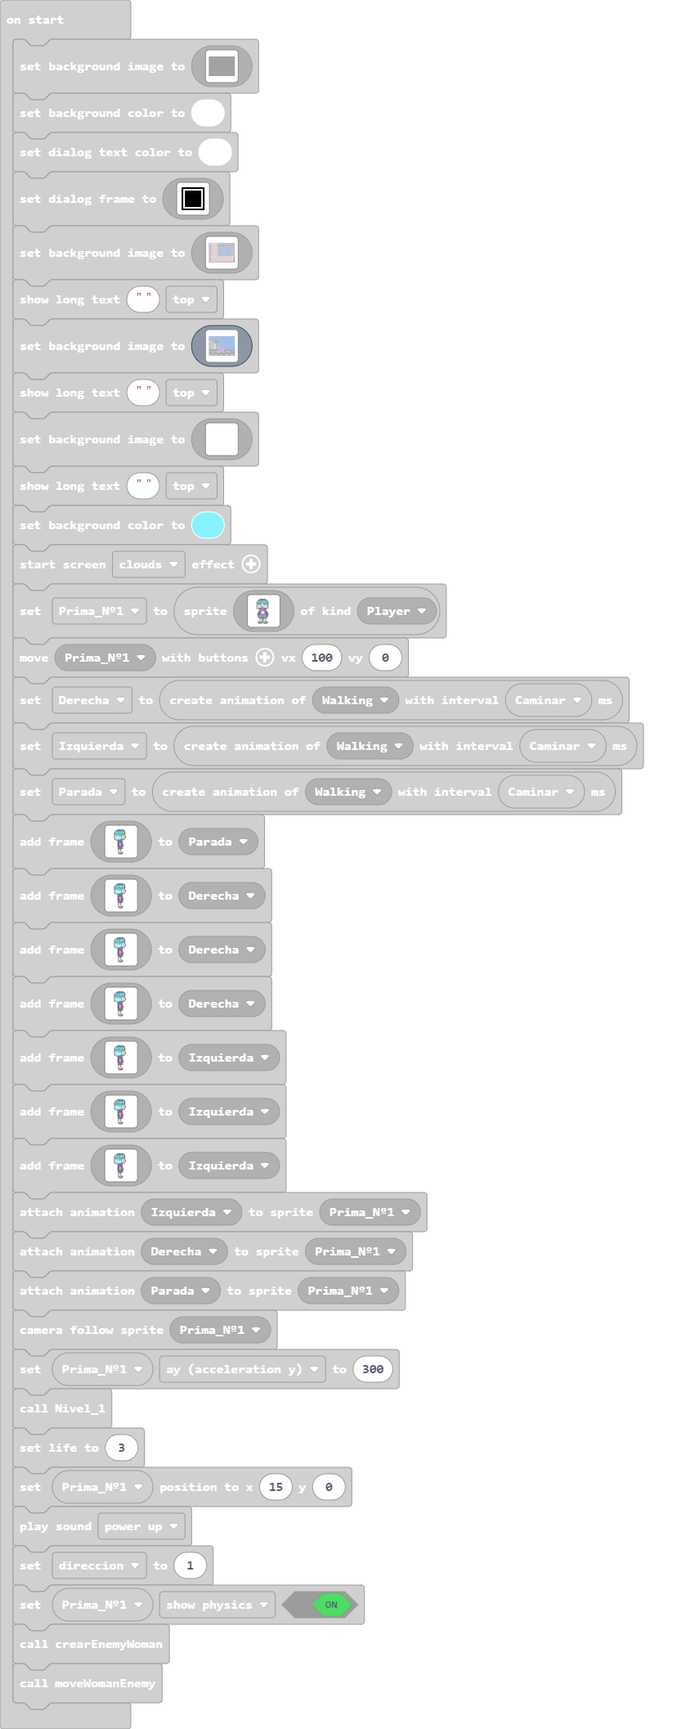
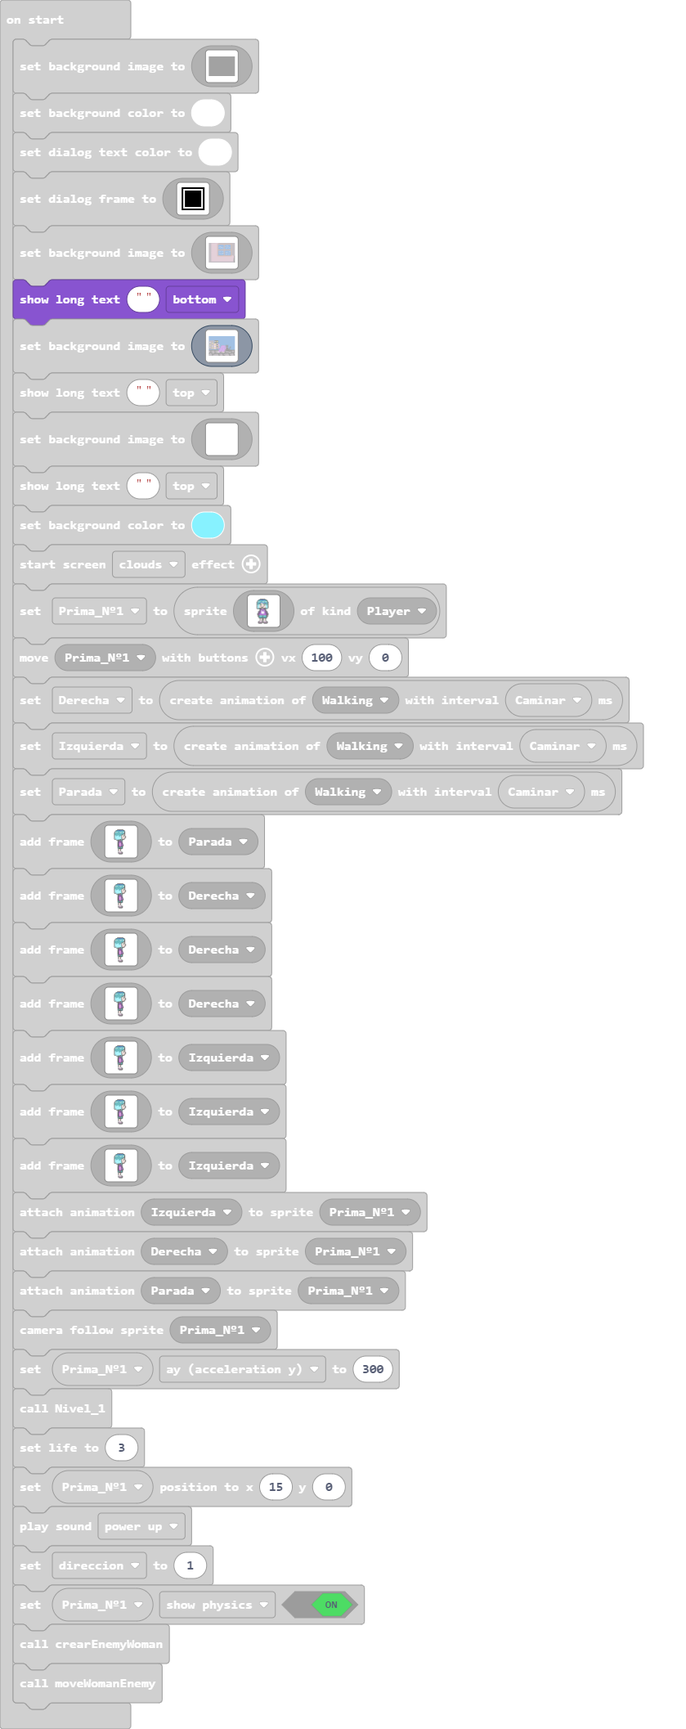
Update main.blocks, main.ts

Changed region(s): [[0.0, 0.1561, 0.3719, 0.1873]]

diff --git a/main.ts b/main.ts
@@ -1198,7 +1198,7 @@ scene.setBackgroundImage(img`
     c c c c c c c c c c c c c c c c c c c c c c c c c c c c c c c c c c c c c c c c c c c c c c c c c c c c c c c c c c c c c c c c c c c c c c c c c c c c c c c c c c c c c c c c c c c c c c c c c c c c c c c c c c c c c c c c c c c c c c c c c c c c c c c c c c c c c c c c c c c c c c c c c c c c c c c c c c c f f f f f 
     c c c c c c c c c c c c c c c c c c c c c c c c c c c c c c c c c c c c c c c c c c c c c c c c c c c c c c c c c c c c c c c c c c c c c c c c c c c c c c c c c c c c c c c c c c c c c c c c c c c c c c c c c c c c c c c c c c c c c c c c c c c c c c c c c c c c c c c c c c c c c c c c c c c c c c c c c c c f f f f f 
     `)
-game.showLongText("", DialogLayout.Top)
+game.showLongText("", DialogLayout.Bottom)
 scene.setBackgroundImage(img`
     8 8 8 8 8 8 8 8 8 8 8 8 8 8 8 8 8 8 8 8 8 8 8 8 8 8 8 8 8 8 8 8 8 8 8 8 8 8 8 8 8 8 8 8 8 8 8 8 8 8 8 8 8 8 8 8 8 8 8 8 8 8 8 8 8 8 8 8 8 8 8 8 8 8 8 8 8 8 8 8 8 8 8 8 8 8 8 8 8 8 8 8 8 8 8 8 8 8 8 8 8 8 8 8 8 8 8 8 8 8 8 8 8 8 8 8 8 8 8 8 8 8 8 8 8 8 8 8 8 8 8 8 8 8 8 8 8 8 8 8 8 8 8 8 8 8 8 8 8 8 8 8 8 8 8 8 8 8 8 8 
     8 8 8 8 8 8 8 8 8 8 8 8 8 8 8 8 8 8 8 8 8 8 8 8 8 8 8 8 8 8 8 8 8 8 8 8 8 8 8 8 8 8 8 8 8 8 8 8 8 8 8 8 8 8 8 8 8 8 8 8 8 8 8 8 8 8 8 8 8 8 8 8 8 8 8 8 8 8 8 8 8 8 8 8 8 8 8 8 8 8 8 8 8 8 8 8 8 8 8 8 8 8 8 8 8 8 8 8 8 8 8 8 8 8 8 8 8 8 8 8 8 8 8 8 8 8 8 8 8 8 8 8 8 8 8 8 8 8 8 8 8 8 8 8 8 8 8 8 8 8 8 8 8 8 8 8 8 8 8 8 
@@ -1251,54 +1251,54 @@ scene.setBackgroundImage(img`
     8 8 c c c c c c c c c c c c c c c c c c c c c c c c c c c c c b b b b b b b b b b b b b b b b f f f f f f f f f f f a a a a a a a 8 8 8 8 8 8 8 8 8 8 8 8 8 8 8 8 8 8 8 8 8 8 8 8 8 8 8 8 8 8 8 8 8 8 8 8 8 8 8 8 8 8 8 8 8 8 8 8 8 8 8 8 8 8 8 8 8 8 8 8 8 8 8 8 8 8 8 8 8 8 8 8 8 8 8 8 8 8 8 8 8 8 8 8 8 8 8 8 8 8 8 8 8 8 8 
     8 8 c c c c c c c c c c c c c c c c c c c c c c c c c c c c c b b b b b b b b b b b b b b b b f f f f f f f f f f f a a a a a a a 8 8 8 8 8 8 8 8 8 8 8 8 8 8 8 8 8 8 8 8 8 8 8 8 8 8 8 8 8 8 8 8 8 8 8 8 8 8 8 8 8 8 8 8 8 8 8 8 8 8 8 8 8 8 8 8 8 8 8 8 8 8 8 8 8 8 8 8 8 8 8 8 8 8 8 8 8 8 8 8 8 8 8 8 8 8 8 8 8 8 8 8 8 8 8 
     8 8 c c c c c c c c c c c c c c c c c c c c c c c c c c c c c b b b b b 5 5 5 5 5 b b b b b b f f f f f f f f f f f a a a a a a a 8 8 8 8 8 8 8 8 8 8 8 8 8 8 8 8 8 8 8 8 8 8 8 8 8 8 8 8 8 8 8 8 8 8 8 8 8 8 8 8 8 8 8 8 8 8 8 8 8 8 8 8 8 8 8 8 8 8 8 8 8 8 8 8 8 8 8 8 8 8 8 8 8 8 8 8 8 8 8 8 8 8 8 8 8 8 8 8 8 8 8 8 8 8 8 
-    8 8 c c c c c c c c c c c c c c c c c c c c c c c c c c c c c b b b b b 5 5 5 5 5 b b b b b b f f f f f f f f f f f a a a a a a a 8 8 8 8 8 8 8 8 8 8 8 8 8 8 8 8 8 8 8 8 8 8 8 8 8 8 8 8 8 8 8 8 8 8 8 8 8 8 8 8 8 8 8 8 8 8 8 8 8 8 8 8 8 8 8 8 8 8 8 8 8 8 8 8 8 8 8 8 8 8 8 8 8 8 8 8 8 8 8 8 8 8 8 8 8 8 8 8 8 8 8 8 8 8 8 
-    8 8 c c c c c c c c c c c c c c c c c c c c c c c c c c c c c b b b b b 5 5 5 5 5 b b b b b b f f f f f f f f f f f a 1 1 1 1 1 a 8 8 8 8 8 8 8 8 8 8 8 8 8 8 8 8 8 8 8 8 8 8 8 8 8 8 8 8 8 8 8 8 8 8 8 8 8 8 8 8 8 8 8 8 8 8 8 8 8 8 8 8 8 8 8 8 8 8 8 8 8 8 8 8 8 8 8 8 8 8 8 8 8 8 8 8 8 8 8 8 8 8 8 8 8 8 8 8 8 8 8 8 8 8 8 
-    8 8 c c c c 5 5 5 5 5 c c c c c c c c c c c c c c c c c c c c b b b b b 5 5 5 5 5 b b b b b b f f f f f f f f f f f a 1 1 1 1 1 a 8 8 8 8 8 8 8 8 8 8 8 8 8 8 8 8 8 8 8 8 8 8 8 8 8 8 8 8 8 8 8 8 8 8 8 8 8 8 8 8 8 8 8 8 8 8 8 8 8 8 8 8 8 8 8 8 8 8 8 8 8 8 8 8 8 8 8 8 8 8 8 8 8 8 8 8 8 8 8 8 8 8 8 8 8 8 8 8 8 8 8 8 8 8 8 
-    8 8 c c c c 5 5 5 5 5 c c c c c c c c c c c c c c c c c c c c b b b b b 5 5 5 5 5 b b b b b b f f f f f f f f f f f a 1 1 1 1 1 a 8 8 8 8 8 8 8 8 8 8 8 8 8 8 8 8 8 8 8 8 8 8 8 8 8 8 8 8 8 8 8 8 8 8 8 8 8 8 8 8 8 8 8 8 8 8 8 8 8 8 8 8 8 8 8 8 8 8 8 8 8 8 8 8 8 8 8 8 8 8 8 8 8 8 8 8 8 8 8 8 8 8 8 8 8 8 8 8 8 8 8 8 8 8 8 
-    8 8 c c c c 5 5 5 5 5 c c c c c c c c c c c c c c c c c c c c b b b b b b b b b b b b b b b b f f f f f f f f f f f a 1 1 1 1 1 a 8 8 8 8 8 8 8 8 8 8 8 8 8 8 8 8 8 8 8 8 8 8 8 8 8 8 8 8 8 8 8 8 8 8 8 8 8 8 8 8 8 8 8 8 8 8 8 8 8 8 8 8 8 8 8 8 8 8 8 8 8 8 8 8 8 8 8 8 8 8 8 8 8 8 8 8 8 8 8 8 8 8 8 8 8 8 8 8 8 8 8 8 8 8 8 
-    8 8 c c c c 5 5 5 5 5 c c c c c c c c c c c c c c c c c c c c b b b b b b b b b b b b b b b b f f f 5 5 5 5 5 f f f a 1 1 1 1 1 a 8 8 8 8 8 8 8 8 8 8 8 8 8 8 8 8 8 8 8 8 8 8 8 8 8 8 8 8 8 8 8 8 8 8 8 8 8 8 8 8 8 8 8 8 8 8 8 8 8 8 8 8 8 8 8 8 8 8 8 8 8 8 8 8 8 8 8 8 8 8 8 8 8 8 8 8 8 8 8 8 8 8 8 8 8 8 8 8 8 8 8 8 8 8 8 
-    8 8 c c c c 5 5 5 5 5 c c c c c c c c c c c c c c c c c c c c b b b b b b b b b b b b b b b b f f f 5 5 5 5 5 f f f a a a a a a a 8 8 8 8 8 8 8 8 8 8 8 8 8 8 8 8 8 8 8 8 8 8 8 8 8 8 8 8 8 8 8 8 8 8 8 8 8 8 8 8 8 8 8 8 8 8 8 8 8 8 8 8 8 8 8 8 8 8 8 8 8 8 8 8 8 8 8 8 8 8 8 8 8 8 8 8 8 8 8 8 8 8 8 8 8 8 8 8 8 8 8 8 8 8 8 
-    8 8 c c c c c c c c c c c c c c c c c c c 1 1 1 1 1 c c c c c b b b b b b b b b b b b b b b b f f f 5 5 5 5 5 f f f a a a a a a a 8 8 8 8 8 8 8 8 8 8 8 8 8 8 8 8 8 8 8 8 8 8 8 8 8 8 8 8 8 8 8 8 8 8 8 8 8 8 8 8 8 8 8 8 8 8 8 8 8 8 8 8 8 8 8 8 8 8 8 8 8 8 8 8 8 8 8 8 8 8 8 8 8 8 8 8 8 8 8 8 8 8 8 8 8 8 8 8 8 8 8 8 8 8 8 
-    8 8 c c c c c c c c c c c c c c c c c c c 1 1 1 1 1 c c c c c b b b b b b b b b b b b b b b b f f f 5 5 5 5 5 f f f a a a a a a a 8 8 8 8 8 8 8 8 8 8 8 8 8 8 8 8 8 8 8 8 8 8 8 8 8 8 8 8 8 8 8 8 8 8 8 8 8 8 8 8 8 8 8 8 8 8 8 8 8 8 8 8 8 8 8 8 8 8 8 8 8 8 8 8 8 8 8 8 8 8 8 8 8 8 8 8 8 8 8 8 8 8 8 8 8 8 8 8 8 8 8 8 8 8 8 
-    8 8 c c c c c c c c c c c c c c c c c c c 1 1 1 1 1 c c c c c b b b b b 1 1 1 1 1 b b b b b b f f f 5 5 5 5 5 f f f a a a a a a a 8 8 8 8 8 8 8 8 8 8 8 8 8 8 8 8 8 8 8 8 8 8 8 8 8 8 8 8 8 8 8 8 8 8 8 8 8 8 8 8 8 8 8 8 8 8 8 8 8 8 8 8 8 8 8 8 8 8 8 8 8 8 8 8 8 8 8 8 8 8 8 8 8 8 8 8 8 8 8 8 8 8 8 8 8 8 8 8 8 8 8 8 8 8 8 
-    8 8 c c c c c c c c c c c c c c c c c c c 1 1 1 1 1 c c c c c b b b b b 1 1 1 1 1 b b b b b b f f f f f f f f f f f a a a a a a a 8 8 8 8 8 8 8 8 8 8 8 8 8 8 8 8 8 8 8 8 8 8 8 8 8 8 8 8 8 8 8 8 8 8 8 8 8 8 8 8 8 8 8 8 8 8 8 8 8 8 8 8 8 8 8 8 8 8 8 8 8 8 8 8 8 8 8 8 8 8 8 8 8 8 8 8 8 8 8 8 8 8 8 8 8 8 8 8 8 8 8 8 8 8 8 
-    8 8 c c c c c c c c c c c c c c c c c c c 1 1 1 1 1 c c c c c b b b b b 1 1 1 1 1 b b b b b b f f f f f f f f f f f a a a a a a a 8 8 8 8 8 8 8 8 8 8 8 8 8 8 8 8 8 8 8 8 8 8 8 8 8 8 8 8 8 8 8 8 8 8 8 8 8 8 8 8 8 8 8 8 8 8 8 8 8 8 8 8 8 8 8 8 8 8 8 8 8 8 8 8 8 8 8 8 8 8 8 8 8 8 8 8 8 8 8 8 8 8 8 8 8 8 8 8 8 8 8 8 8 8 8 
-    8 8 c c c c c c c c c c c c c c c c c c c c c c c c c c c c c b b b b b 1 1 1 1 1 b b b b b b f f f f f f f f f f f a a a a a a a 8 8 8 8 8 8 8 8 8 f a a a a a a a a a 8 8 8 8 8 8 8 8 8 8 8 8 8 8 f 8 8 8 8 8 8 8 8 8 8 8 8 8 8 8 8 8 8 8 8 8 8 8 8 8 8 8 8 8 8 8 8 8 8 8 8 8 8 8 8 8 8 8 8 8 8 8 8 8 8 8 8 8 8 8 8 8 8 8 8 8 
-    8 8 c c c c c c c c c c c c c c c c c c c c c c c c c c c c c b b b b b 1 1 1 1 1 b b b b b b f f f f f f f f f f f a 5 5 5 5 5 a 8 8 8 8 8 8 8 8 8 f a a a a a a a a a a 8 8 8 8 8 8 8 8 8 8 8 8 8 f 8 8 8 8 8 8 8 8 8 8 8 8 8 8 8 8 8 8 8 8 8 8 8 8 8 8 8 8 8 8 8 8 8 8 8 8 8 8 8 8 8 8 8 8 8 8 8 8 8 8 8 8 8 8 8 8 8 8 8 8 8 
-    8 8 c c c c c c c c c c c c c c c c c c c c c c c c c c c c c b b b b b b b b b b b b b b b b f f f f f f f f f f f a 5 5 5 5 5 a 8 8 8 8 8 8 8 8 8 f a a a a a a a a a a 8 8 8 8 8 8 8 8 8 8 8 8 8 f 8 8 8 8 8 8 8 8 8 8 8 8 8 8 8 8 8 8 8 8 8 8 8 8 8 8 8 8 8 8 8 8 8 8 8 8 8 8 8 8 8 8 8 8 8 8 8 8 8 8 8 8 8 8 8 8 8 8 8 8 8 
-    8 8 c c c c c 1 1 1 c c c c c c c c c c c c c c c c c c c c c b b b b b b b b b b b b b b b b f f f f f f f f f f f a 5 5 5 5 5 a 8 8 8 8 8 8 8 f f a a a a a a a a a a a f a a a a a a a a a a a a f 8 8 8 8 8 8 8 8 8 8 8 8 8 8 8 8 8 8 8 8 8 8 8 8 8 8 8 8 8 8 8 8 8 8 8 8 8 8 8 8 8 8 8 8 8 8 8 8 8 8 8 8 8 8 8 8 8 8 8 8 8 
-    8 8 c c c c c 1 1 1 c c c c c c c c c c c c c c c c c c c c c b b b b b b b b b b b b b b b b f f f f f f f f f f f a 5 5 5 5 5 a 8 8 8 8 8 8 8 f a a a a a a a a a a a a f a a a a a a a a a a a a f 8 8 8 8 8 8 8 8 8 8 8 8 8 8 8 8 8 8 8 8 8 8 8 8 8 8 8 8 8 8 8 8 8 8 8 8 8 8 8 8 8 8 8 8 8 8 8 8 8 8 8 8 8 8 8 8 8 8 8 8 8 
-    8 8 c c c c c 1 1 1 c c c c c c c c c c c c c c c c c c c c c b b b b b b b b b b b b b b b b f f f f f f f f f f f a 5 5 5 5 5 a 8 8 8 8 8 8 8 f a a a a a a a a a a a a f f a a a a a a a a a a a f 8 8 8 8 8 8 8 8 8 8 8 8 8 8 8 8 8 8 8 8 8 8 8 8 8 8 8 8 8 8 8 8 8 8 8 8 8 8 8 8 8 8 8 8 8 8 8 8 8 8 8 8 8 8 8 8 8 8 8 8 8 
-    8 8 c c c c c c c c c c c c c c c c c c 5 5 5 5 5 c c c c c c b b b b b b b b b b b b b b b b f f f 1 1 1 1 1 f f f a a a a a a a 8 8 8 8 8 8 f a a a a a a a a a a a a a f a a a a a a a a a a a a f 8 8 8 8 8 8 8 8 8 8 8 8 8 8 8 8 8 8 8 8 8 8 8 8 8 8 8 8 8 8 8 8 8 8 8 8 8 8 8 8 8 8 8 8 8 8 8 8 8 8 8 8 8 8 8 8 8 8 8 8 8 
-    8 8 c c c c c c c c c c c c c c c c c c 5 5 5 5 5 c c c c c c b b b b b 5 5 5 5 5 b b b b b b f f f 1 1 1 1 1 f f f a a a a a a a 8 8 8 8 8 8 f a a a a a a a a a a a a a f a a a a a a a a a a a a f 8 8 8 8 8 8 8 8 8 8 8 8 8 8 8 8 8 8 8 8 8 8 8 8 8 8 8 8 8 8 8 8 8 8 8 8 8 8 8 8 8 8 8 8 8 8 8 8 8 8 8 8 8 8 8 8 8 8 8 8 8 
-    8 8 c c c c c c c c c c c c c c c c c c 5 5 5 5 5 c c c c c c b b b b b 5 5 5 5 5 b b b b b b f f f 1 1 1 1 1 f f f a a a a a a a 8 8 8 8 8 f a a a a a a a a a a a a a a f a a a a a a a a a a a a f 8 8 8 8 8 8 8 8 8 8 8 8 8 8 8 8 8 8 8 8 8 8 8 8 8 8 8 8 8 8 8 8 8 8 8 8 8 8 8 8 8 8 8 8 8 8 8 8 8 8 8 8 8 8 8 8 8 8 8 8 8 
-    8 8 c c c c c c c c c c c c c c c c c c 5 5 5 5 5 c c c c c c b b b b b 5 5 5 5 5 b b b b b b f f f 1 1 1 1 1 f f f a a a a a a a 8 8 8 8 8 f a a a a a a a a a a a a a f a a a a a a a a a a a a a f 8 8 8 8 8 8 8 8 8 8 8 8 8 8 8 8 8 8 8 8 8 8 8 8 8 8 8 8 8 8 8 8 8 8 8 8 8 8 8 8 8 8 8 8 8 8 8 8 8 8 8 8 8 8 8 8 8 8 8 8 8 
-    8 8 c c c c c c c c c c c c c c c c c c 5 5 5 5 5 c c c c c c b b b b b 5 5 5 5 5 b b b b b b f f f 1 1 1 1 1 f f f a a a a a a a 8 8 8 8 8 f a a a a a a a a a a a a a f a a a a a a a a a a a a a f 8 8 8 8 8 8 8 8 8 8 8 8 8 8 8 8 8 8 8 8 8 8 8 8 8 8 8 8 8 8 8 8 8 8 8 8 8 8 8 8 8 8 8 8 8 8 8 8 8 8 8 8 8 8 8 8 8 8 8 8 8 
-    8 8 c c c c c c c c c c c c c c c c c c c c c c c c c c c c c b b b b b 5 5 5 5 5 b b b b b b f f f f f f f f f f f a a a a a a a 8 8 8 8 f f a a a a a a a a a a a a a f a a a a a a a a a a a a a f 8 8 8 8 8 8 8 8 8 8 8 8 8 8 8 8 8 8 8 8 8 8 8 8 8 8 8 8 8 8 8 8 8 8 8 8 8 8 8 8 8 8 8 8 8 8 8 8 8 8 8 8 8 8 8 8 8 8 8 8 8 
-    8 8 c c c c c c c c c c c c c c c c c c c c c c c c c c c c c b b b b b b b b b b b b b b b b f f f f f f f f f f f a a a a a a a 8 8 8 8 f a a a a a a a a a a a a a a f a a a a a a a a a a a a a f 8 8 8 8 8 8 8 8 8 8 8 8 8 8 8 8 8 8 8 8 8 8 8 8 8 8 8 8 8 8 8 8 8 8 8 8 8 8 8 8 8 8 8 8 8 8 8 8 8 8 8 8 8 8 8 8 8 8 8 8 8 
-    8 8 c c c c c c c c c c c c c c c c c c c c c c c c c c c c c b b b b b b b b b b b b b b b b f f f f f f f f f f f a a a a a a a 8 8 8 8 f a a a a a a a a a a a a a a a a a a a a a a a a a a a a f 8 8 8 8 8 8 8 8 8 8 8 8 8 8 8 8 8 8 8 8 8 8 8 8 8 8 8 8 8 8 8 8 8 8 8 8 8 8 8 8 8 8 8 8 8 8 8 8 8 8 8 8 8 8 8 8 8 8 8 8 8 
-    8 8 c c c c c c c c c c c c c c c c c c c c c c c c c c c c c b b b b b b b b b b b b b b b b f f f f f f f f f f f a a a a a a a 8 8 8 f a a a a a a a a a a a a a f f a a a a a a a a a a a a a a f 8 8 8 8 8 8 8 8 8 8 8 8 8 8 8 8 8 8 8 8 8 8 8 8 8 8 8 8 8 8 8 8 8 8 8 8 8 8 8 8 8 8 8 8 8 8 8 8 8 8 8 8 8 8 8 8 8 8 8 8 8 
-    8 8 c c c c c c c c c c c c c c c c c c c c c c c c c c c c c b b b b b b b b b b b b b b b b f f f f f f f f f f f a a a a a a a 8 8 f a a a a a a a a a a a a a a f a a a a a a a a a a a a a a a a f 8 8 8 8 8 8 8 8 8 8 8 8 8 8 8 8 8 8 8 8 8 8 8 8 8 8 8 8 8 8 8 8 8 8 8 8 8 8 8 8 8 8 8 8 8 8 8 8 8 8 8 8 8 8 8 8 8 8 8 8 
-    8 8 8 8 8 8 8 8 8 8 8 8 8 8 8 8 8 8 8 8 8 8 8 8 8 8 8 8 8 8 8 8 8 8 8 8 8 8 8 8 8 8 8 8 8 8 8 8 8 8 8 8 8 8 8 8 8 8 8 8 8 8 8 8 8 8 f f a a a a a a a a a a a a a a f a a a a a a a a a a a a a a a a f 8 8 8 8 8 8 8 8 8 8 8 8 8 8 8 8 8 8 8 8 8 8 8 8 8 8 8 8 8 8 8 8 8 8 8 8 8 8 8 8 8 8 8 8 8 8 8 8 8 8 8 8 8 8 8 8 8 8 8 8 
-    8 8 8 8 8 8 8 8 8 8 8 8 8 8 8 8 8 8 8 8 8 8 8 8 8 8 8 8 8 8 8 8 8 8 8 8 8 8 8 8 8 8 8 8 8 8 8 8 8 8 8 8 8 8 8 8 8 8 8 8 8 8 8 8 8 8 f a a a a a a a a a a a a a a a f a a a a a a a a a a a a a a a a a f 8 8 8 8 8 8 8 8 8 8 8 8 8 8 8 8 8 8 8 8 8 8 8 8 8 8 8 8 8 8 8 8 8 8 8 8 8 8 8 8 8 8 8 8 8 8 8 8 8 8 8 8 8 8 8 8 8 8 8 
-    8 8 8 8 8 8 8 8 8 8 8 8 8 8 8 8 8 8 8 8 8 8 8 8 8 8 8 8 8 8 8 8 8 8 8 8 8 8 8 8 8 8 8 8 8 8 8 8 8 8 8 8 8 8 8 8 8 8 8 8 8 8 8 8 8 f f a a a a a a a a a a a a a a a f a a a a a a a a a a a a a a a a a f 8 8 8 8 8 8 8 8 8 8 8 8 8 8 8 8 8 8 8 8 8 8 8 8 8 8 8 8 8 8 8 8 8 8 8 8 8 8 8 8 8 8 8 8 8 8 8 8 8 8 8 8 8 8 8 8 8 8 8 
-    8 8 8 8 8 8 8 8 8 8 8 8 8 8 8 8 8 8 8 8 8 8 8 8 8 8 8 8 8 8 8 8 8 8 8 8 8 8 8 8 8 8 8 8 8 8 8 8 8 8 8 8 8 8 8 8 8 8 8 8 8 8 8 8 8 f a a a a a a a a a a a a a a a a a a a a a a a a a a a a a a a a a a f 8 8 8 8 8 8 8 8 8 8 8 8 8 8 8 8 8 8 8 8 8 8 8 8 8 8 8 8 8 8 8 8 8 8 8 8 8 8 8 8 8 8 8 8 8 8 8 8 8 8 8 8 8 8 8 8 8 8 8 
-    f f f f f f f f f f f f f f f f f f f f f f f f f f f f f f f f f f f f f f f f f f f f f f f f f f f f f f f f f f f f f f f f f a a a a a a a a a a a a a a a a f a a a a a a a a a a a a a f f f f f f f f f f f f f f f f f f f f f f f f f f f f f f f f f f f f f f f f f f f f f f f f f f f f f f f f f f f f f f f f f 
-    f f f f f f f f f f f f f f f f f f f f f f f f f f f f f f f f f f f f f f f f f f f f f f f f f f f f f f f f f f f f f f f f a a a a a a a a a a a a a a a a a a a a a a a a a a a a a a a f f f f f f f f f f f f f f f f f f f f f f f f f f f f f f f f f f f f f f f f f f f f f f f f f f f f f f f f f f f f f f f f f 
-    f f f f f f f f f f f f f f f f f f f f f f f f f f f f f f f f f f f f f f f f f f f f f f f f f f f f f f f f f f f f f f f a a a a a a a a a a a a a a a a a a a a a a a a a a a a a a a a f f f f f f f f f f f f f f f f f f f f f f f f f f f f f f f f f f f f f f f f f f f f f f f f f f f f f f f f f f f f f f f f f 
-    f f f f f f f f f f f f f f f f f f f f f f f f f f f f f f f f f f f f f f f f f f f f f f f f f f f f f f f f f f f f f f a a a a a a a a a a a a a a a a a a f a a a a a a a a a a a a a a f f f f f f f f f f f f f f f f f f f f f f f f f f f f f f f f f f f f f f f f f f f f f f f f f f f f f f f f f f f f f f f f f 
-    f f f f f f f f f f f f f f f f f f f f f f f f f f f f f f f f f f f f f f f f f f f f f f f f f f f f f f f f f f f f f f a a a a a a a a a a a a a a a a a f a a a a a a a a a a a a a a a f f f f f f f f f f f f f f f f f f f f f f f f f f f f f f f f f f f f f f f f f f f f f f f f f f f f f f f f f f f f f f f f f 
-    c c c c c c c c c c c c f f f f f c c c c c c c c c c c c c c c c c c c f f f f f c c c c c c c c c c c c c c c c c c f f a a a a a a a a a a a a a a a a a a f a a a a a a a a a a a a a a a f f f f f f c c c c c c c c c c c c c c c c c c c c c c c c c c c c c c f f f f f f f f f f f c c c c c c c c c c c c c c f f f f 
-    c c c c c c c c c c c c f f f f f c c c c c c c c c c c c c c c c c c c f f f f f c c c c c c c c c c c c c c c c c c f f a a a a a a a a a a a a a a a a a f a a a a a a a a a a a a a a a a f f f f f f c c c c c c c c c c c c c c c c c c c c c c c c c c c c c c f f f f f f f f f f f f c c c c c c c c c c c c c f f f f 
-    c c c c c c c c c c c c f f f f f c c c c c c c c c c c c c c c c c c c f f f f f c c c c c c c c c c c c c c c c c c f a a a a a a a a a a a a a a a a a f f a a a a a a a a a a a a a a a a f f f f f f c c c c c c c c c c c c c c c c c c c c c c c c c c c c c c f f f f f f f f f f f f c c c c c c c c c c c c f f f f f 
-    c c c c c c c c c c c f f f f f f c c c c c c c c c c c c c c c c c c c f f f f f c c c c c c c c c c c c c c c f f f f a a a a a a a a a a a a a a a a c f a f a a a a a a a a a a a a a a a f f f f f f f f c c c c c c c c c c c c c c c c c c c c c c c c c c c c c c f f f f f f f f f f c c c c c c c c c c c c f f f f f 
-    c c c c c c c c c c c f f f f f f c c c c c c c c c c c c c c c c c c c f f f f f c c c c c c c c c c c c c c c f d d f a a a a a a a a a a a a a a a c f f f a a a a a a a a a a a a a a a a f f f f f f f f f c c c c c c c c c c c c c c c c c c c c c c c c c c c c c c c c f f f f f f f c c c c c c c c c c c c f f f f f 
-    c c c c c c c c c c c f f f f f f c c c c c c c c c c c c c c c c c c c f f f f f c c c c c c c c c c c c c c f d d d f a a a a a a a a a a a a a a a f b f f a a a a a a a a a a a a a a f f f f f f f f f f f f c c c c c c c c c c c c c c c c c c c c c c c c c c c c c c c c f f f f f f c c c c c c c c c c c c f f f f f 
-    c c c c c c c c c c f f f f f f f c c c c c c c c c c c c c c c c c c c f f f f f f c c c c c c c c c c c c f d d d d d a a a a a a a a a a a a a a f f b b f f f f a a a a a a a a a f f b b f f f f f f f f f f f c c c c c c c c c c c c c c c c c c c c c c c c c c c c c c c f f f f f f c c c c c c c c c c c c f f f f f 
-    c c c c c c c c c c f f f f f f c c c c c c c c c c c c c c c c c c c c f f f f f f f c c c c c c c c c c c f d d d d d a a a a a a a a a a a a a f f f b b b b b b f f f f f f f f f b b b b b c f f f f f f f f f c c c c c c c c c c c c c c c c c c c c c c c c c c c c c c c f f f f f c c c c c c c c c c c c c f f f f f 
-    c c c c c c c c c f f f f f f f c c c c c c c c c c c c c c c c c c c c f f f f f f f c c c c c c c c c c c f d d d d d f f f f a a a a a a a a f f f f b b b b b b b b b b b b b b b b b b b b c c c f f f f f f f c c c c c c c c c c c c c c c c c c c c c c c c c c c c c c c f f f f f c c c c c c c c c c c c c f f f f f 
-    c c c c c c c c f f f f f f f f c c c c c c c c c c c c c c c c c c c c f f f f f f f c c c c c c c c c c c f d d d d d d d d f f f a a a a a f f f f f f b b b b b b b b b b b b b b b b b b b c c c c f f f f f f c c c c c c c c c c c c c c c c c c c c c c c c c c c c c c c f f f f f c c c c c c c c c c c f f f f f f f 
-    c c c c c c c c f f f f f f f f f f f f f c c c c c c c c c c c c c c c f f f f f f f c c c c c c c c c c c f f d d d d d d d d d f f f f f f f f f f f c f f b b b b b b b b b b b b b b b b b c c c c f f f f f f c c c c c c c c c c c c c c c c c c c c c c c c c c c c c c c f f f f f c c c c c c c c f f f f f f f f f f 
+    8 8 c c c c c c c c c c c c c c c c c c c c c c c c c c c c c b b b b b 5 5 5 5 5 b b b b b b f f f f f f f f f f f a a a a a a a 8 8 8 8 8 8 8 8 8 8 8 8 8 8 8 8 8 8 8 8 8 8 8 8 8 8 8 8 8 8 8 8 8 8 8 8 8 8 8 8 8 8 8 8 f 8 8 8 8 8 f 8 8 8 8 8 8 8 8 8 8 8 8 8 8 8 8 8 8 8 8 8 8 8 8 8 8 8 8 8 8 8 8 8 8 8 8 8 8 8 8 8 8 8 8 
+    8 8 c c c c c c c c c c c c c c c c c c c c c c c c c c c c c b b b b b 5 5 5 5 5 b b b b b b f f f f f f f f f f f a 1 1 1 1 1 a 8 8 8 8 8 8 8 8 8 8 8 8 8 8 8 8 8 8 8 8 8 8 8 8 8 8 8 8 8 8 8 8 8 8 8 8 8 8 8 8 8 8 8 f f 8 8 8 8 8 f f 8 8 8 8 8 8 8 8 8 8 8 8 8 8 8 8 8 8 8 8 8 8 8 8 8 8 8 8 8 8 8 8 8 8 8 8 8 8 8 8 8 8 8 
+    8 8 c c c c 5 5 5 5 5 c c c c c c c c c c c c c c c c c c c c b b b b b 5 5 5 5 5 b b b b b b f f f f f f f f f f f a 1 1 1 1 1 a 8 8 8 8 8 8 8 8 8 8 8 8 8 8 8 8 8 8 8 8 8 8 8 8 8 8 8 8 8 8 8 8 8 8 8 8 8 8 8 8 8 8 f f f 8 8 8 8 8 f f f 8 8 8 8 8 8 8 8 8 8 8 8 8 8 8 8 8 8 8 8 8 8 8 8 8 8 8 8 8 8 8 8 8 8 8 8 8 8 8 8 8 8 
+    8 8 c c c c 5 5 5 5 5 c c c c c c c c c c c c c c c c c c c c b b b b b 5 5 5 5 5 b b b b b b f f f f f f f f f f f a 1 1 1 1 1 a 8 8 8 8 8 8 8 8 8 8 8 8 8 8 8 8 8 8 8 8 8 8 8 8 8 8 8 8 8 8 8 8 8 8 8 8 8 8 8 8 8 8 f f f f 8 8 8 f f f f 8 8 8 8 8 8 8 8 8 8 8 8 8 8 8 8 8 8 8 8 8 8 8 8 8 8 8 8 8 8 8 8 8 8 8 8 8 8 8 8 8 8 
+    8 8 c c c c 5 5 5 5 5 c c c c c c c c c c c c c c c c c c c c b b b b b b b b b b b b b b b b f f f f f f f f f f f a 1 1 1 1 1 a 8 8 8 8 8 8 8 8 8 8 8 8 8 8 8 8 8 8 8 8 8 8 8 8 8 8 8 8 8 8 8 8 8 8 8 8 8 8 8 8 8 8 f f f f 8 8 8 f f f f 8 8 8 8 8 8 8 8 8 8 8 8 8 8 8 8 8 8 8 8 8 8 8 8 8 8 8 8 8 8 8 8 8 8 8 8 8 8 8 8 8 8 
+    8 8 c c c c 5 5 5 5 5 c c c c c c c c c c c c c c c c c c c c b b b b b b b b b b b b b b b b f f f 5 5 5 5 5 f f f a 1 1 1 1 1 a 8 8 8 8 8 8 8 8 8 8 8 8 8 8 f f f f f f f f f f f f f f f f f f f f 8 8 8 8 8 8 8 8 f f f f 8 8 8 f f f f 8 8 8 8 8 8 8 8 8 8 8 8 8 8 8 8 8 8 8 8 8 8 8 8 8 8 8 8 8 8 8 8 8 8 8 8 8 8 8 8 8 8 
+    8 8 c c c c 5 5 5 5 5 c c c c c c c c c c c c c c c c c c c c b b b b b b b b b b b b b b b b f f f 5 5 5 5 5 f f f a a a a a a a 8 8 8 8 8 8 8 8 8 8 8 8 f f a a a a a a a a a a a a a a a a a a a a f f f 8 8 8 8 8 f f f f f f f f f f f 8 8 8 8 8 8 8 8 8 8 8 8 8 8 8 8 8 8 8 8 8 8 8 8 8 8 8 8 8 8 8 8 8 8 8 8 8 8 8 8 8 8 
+    8 8 c c c c c c c c c c c c c c c c c c c 1 1 1 1 1 c c c c c b b b b b b b b b b b b b b b b f f f 5 5 5 5 5 f f f a a a a a a a 8 8 8 8 8 8 8 8 8 8 8 8 f a a a a a a a a a a a a a a a a a a a a a a a f f 8 8 8 f f f f f f f f f f f f f 8 8 8 8 8 8 8 8 8 8 8 8 8 8 8 8 8 8 8 8 8 8 8 8 8 8 8 8 8 8 8 8 8 8 8 8 8 8 8 8 8 
+    8 8 c c c c c c c c c c c c c c c c c c c 1 1 1 1 1 c c c c c b b b b b b b b b b b b b b b b f f f 5 5 5 5 5 f f f a a a a a a a 8 8 8 8 8 8 8 8 8 8 8 8 f a a a a a a a a a a a a a a a a a a a a a a a a f 8 8 8 f f f f f f f f f f f f f 8 8 8 8 8 8 8 8 8 8 8 8 8 8 8 8 8 8 8 8 8 8 8 8 8 8 8 8 8 8 8 8 8 8 8 8 8 8 8 8 8 
+    8 8 c c c c c c c c c c c c c c c c c c c 1 1 1 1 1 c c c c c b b b b b 1 1 1 1 1 b b b b b b f f f 5 5 5 5 5 f f f a a a a a a a 8 8 8 8 8 8 8 8 8 8 f f a a a a a a a a a a a a a a a a a a a a a a a a a f f 8 8 f f f f f f f f f f f f f 8 8 8 8 8 8 8 8 8 8 8 8 8 8 8 8 8 8 8 8 8 8 8 8 8 8 8 8 8 8 8 8 8 8 8 8 8 8 8 8 8 
+    8 8 c c c c c c c c c c c c c c c c c c c 1 1 1 1 1 c c c c c b b b b b 1 1 1 1 1 b b b b b b f f f f f f f f f f f a a a a a a a 8 8 8 8 8 8 8 8 8 8 f a a a a a a a a a a a a a a a a a a a a a a a a a a a f f 8 f f f f f f f f f f f f f 8 8 8 8 8 8 8 8 8 8 8 8 8 8 8 8 8 8 8 8 8 8 8 8 8 8 8 8 8 8 8 8 8 8 8 8 8 8 8 8 8 
+    8 8 c c c c c c c c c c c c c c c c c c c 1 1 1 1 1 c c c c c b b b b b 1 1 1 1 1 b b b b b b f f f f f f f f f f f a a a a a a a 8 8 8 8 8 8 8 8 8 8 f a a a a a a a a a a a a a a a a a a a a a a a a a a a a f 8 f f f f f f f f f f f f f 8 8 8 8 8 8 8 8 8 8 8 8 8 f f 8 8 8 8 8 8 8 8 8 8 8 8 8 8 8 8 8 8 8 8 8 8 8 8 8 8 
+    8 8 c c c c c c c c c c c c c c c c c c c c c c c c c c c c c b b b b b 1 1 1 1 1 b b b b b b f f f f f f f f f f f a a a a a a a 8 8 8 8 8 8 8 8 8 f a a a a a a a a a a a a a a a a a a a a a a a f a a a a a f 8 f f f f f f f f f f f f f 8 8 8 8 8 8 8 8 8 8 8 8 8 f f f 8 8 8 8 8 8 8 8 8 8 8 8 8 8 8 8 8 8 8 8 8 8 8 8 8 
+    8 8 c c c c c c c c c c c c c c c c c c c c c c c c c c c c c b b b b b 1 1 1 1 1 b b b b b b f f f f f f f f f f f a 5 5 5 5 5 a 8 8 8 8 8 8 8 8 8 f a a a a a a a a a a a a a a a a a a a a a a a f a a a a a f 8 f f f f f f f f f f f f f 8 8 8 8 8 8 8 8 8 8 8 8 8 f f f 8 8 8 8 8 8 8 8 8 8 8 8 8 8 8 8 8 8 8 8 8 8 8 8 8 
+    8 8 c c c c c c c c c c c c c c c c c c c c c c c c c c c c c b b b b b b b b b b b b b b b b f f f f f f f f f f f a 5 5 5 5 5 a 8 8 8 8 8 8 8 8 8 f a a a a a a a a a a f a a a a a a a a a a a a f a a a a a f 8 8 f f f f f f f f f f f 8 8 8 8 8 8 8 8 8 8 8 8 8 f f f f 8 8 8 8 8 8 8 8 8 8 8 8 8 8 8 8 8 8 8 8 8 8 8 8 8 
+    8 8 c c c c c 1 1 1 c c c c c c c c c c c c c c c c c c c c c b b b b b b b b b b b b b b b b f f f f f f f f f f f a 5 5 5 5 5 a 8 8 8 8 8 8 8 f f a a a a a a a a a a a f a a a a a a a a a a a a f a a a a a f 8 8 8 f f f f f f f f f 8 8 8 8 8 8 8 8 8 8 8 8 8 f f f f f 8 8 8 8 8 8 8 8 8 8 8 8 8 8 8 8 8 8 8 8 8 8 8 8 8 
+    8 8 c c c c c 1 1 1 c c c c c c c c c c c c c c c c c c c c c b b b b b b b b b b b b b b b b f f f f f f f f f f f a 5 5 5 5 5 a 8 8 8 8 8 8 8 f a a a a a a a a a a a a f a a a a a a a a a a a a f a a a a a f 8 8 8 f f f f f f f f f 8 8 8 8 8 8 8 8 8 8 8 8 8 f f f f f 8 8 8 8 8 8 8 8 8 8 8 8 8 8 8 8 8 8 8 8 8 8 8 8 8 
+    8 8 c c c c c 1 1 1 c c c c c c c c c c c c c c c c c c c c c b b b b b b b b b b b b b b b b f f f f f f f f f f f a 5 5 5 5 5 a 8 8 8 8 8 8 8 f a a a a a a a a a a a a f f a a a a a a a a a a a f a a a a a a f 8 8 b b f f f f f b b 8 8 8 8 8 8 8 8 8 8 8 8 f f f f f f 8 8 8 8 8 8 8 8 8 8 8 8 8 8 8 8 8 8 8 8 8 8 8 8 8 
+    8 8 c c c c c c c c c c c c c c c c c c 5 5 5 5 5 c c c c c c b b b b b b b b b b b b b b b b f f f 1 1 1 1 1 f f f a a a a a a a 8 8 8 8 8 8 f a a a a a a a a a a a a a f a a a a a a a a a a a a f a a a a a a f 8 f f b b b b b b b f f f 8 8 8 8 8 8 8 8 8 f f f f f f 8 8 8 8 8 8 8 8 8 8 8 8 8 8 8 8 8 8 8 8 8 8 8 8 8 8 
+    8 8 c c c c c c c c c c c c c c c c c c 5 5 5 5 5 c c c c c c b b b b b 5 5 5 5 5 b b b b b b f f f 1 1 1 1 1 f f f a a a a a a a 8 8 8 8 8 8 f a a a a a a a a a a a a a f a a a a a a a a a a a a f a a a a a a f f f f f f f f f f f f f f f 8 8 8 8 8 8 8 8 f f f f f f 8 8 8 8 8 8 8 8 8 8 8 8 8 8 8 8 8 8 8 8 8 8 8 8 8 8 
+    8 8 c c c c c c c c c c c c c c c c c c 5 5 5 5 5 c c c c c c b b b b b 5 5 5 5 5 b b b b b b f f f 1 1 1 1 1 f f f a a a a a a a 8 8 8 8 8 f a a a a a a a a a a a a a a f a a a a a a a a a a a a f a a a a a a f f f f f f f f f f f f f f f 8 8 8 8 8 8 8 f f f f f f 8 8 8 8 8 8 8 8 8 8 8 8 8 8 8 8 8 8 8 8 8 8 8 8 8 8 8 
+    8 8 c c c c c c c c c c c c c c c c c c 5 5 5 5 5 c c c c c c b b b b b 5 5 5 5 5 b b b b b b f f f 1 1 1 1 1 f f f a a a a a a a 8 8 8 8 8 f a a a a a a a a a a a a a f a a a a a a a a a a a a a f a a a a a a f f f f f f f f f f f f f f f 8 8 8 8 8 8 8 f f f f f f 8 8 8 8 8 8 8 8 8 8 8 8 8 8 8 8 8 8 8 8 8 8 8 8 8 8 8 
+    8 8 c c c c c c c c c c c c c c c c c c 5 5 5 5 5 c c c c c c b b b b b 5 5 5 5 5 b b b b b b f f f 1 1 1 1 1 f f f a a a a a a a 8 8 8 8 8 f a a a a a a a a a a a a a f a a a a a a a a a a a a a f a a a a a a a f f f f f f f f f f f f f f 8 8 8 8 8 8 f f f f f f 8 8 8 8 8 8 8 8 8 8 8 8 8 8 8 8 8 8 8 8 8 8 8 8 8 8 8 8 
+    8 8 c c c c c c c c c c c c c c c c c c c c c c c c c c c c c b b b b b 5 5 5 5 5 b b b b b b f f f f f f f f f f f a a a a a a a 8 8 8 8 f f a a a a a a a a a a a a a f a a a a a a a a a a a a a f a a a a a a a f f f f f f f f f f f f f f 8 8 8 8 8 8 f f f f f f 8 8 8 8 8 8 8 8 8 8 8 8 8 8 8 8 8 8 8 8 8 8 8 8 8 8 8 8 
+    8 8 c c c c c c c c c c c c c c c c c c c c c c c c c c c c c b b b b b b b b b b b b b b b b f f f f f f f f f f f a a a a a a a 8 8 8 8 f a a a a a a a a a a a a a a f a a a a a a a a a a a a a f a a a a a a a f f f f f f f f f f f f f f f 8 8 8 8 8 f f f f f f 8 8 8 8 8 8 8 8 8 8 8 8 8 8 8 8 8 8 8 8 8 8 8 8 8 8 8 8 
+    8 8 c c c c c c c c c c c c c c c c c c c c c c c c c c c c c b b b b b b b b b b b b b b b b f f f f f f f f f f f a a a a a a a 8 8 8 8 f a a a a a a a a a a a a a a a a a a a a a a a a a a a a f a a a a a a a f f f f f f f f f f f f f f f 8 8 8 8 8 f f f f f 8 8 8 8 8 8 8 8 8 8 8 8 8 8 8 8 8 8 8 8 8 8 8 8 8 8 8 8 8 
+    8 8 c c c c c c c c c c c c c c c c c c c c c c c c c c c c c b b b b b b b b b b b b b b b b f f f f f f f f f f f a a a a a a a 8 8 8 f a a a a a a a a a a a a a f f a a a a a a a a a a a a a a f a a a a a a a f f f f f f f f f f f f f f f f 8 8 8 8 f f f f f 8 8 8 8 8 8 8 8 8 8 8 8 8 8 8 8 8 8 8 8 8 8 8 8 8 8 8 8 8 
+    8 8 c c c c c c c c c c c c c c c c c c c c c c c c c c c c c b b b b b b b b b b b b b b b b f f f f f f f f f f f a a a a a a a 8 8 f a a a a a a a a a a a a a a f a a a a a a a a a a a a a a a a f a a a a a a f f f f f f f f f f f f f f f f 8 8 8 8 8 f f f f 8 8 8 8 8 8 8 8 8 8 8 8 8 8 8 8 8 8 8 8 8 8 8 8 8 8 8 8 8 
+    8 8 8 8 8 8 8 8 8 8 8 8 8 8 8 8 8 8 8 8 8 8 8 8 8 8 8 8 8 8 8 8 8 8 8 8 8 8 8 8 8 8 8 8 8 8 8 8 8 8 8 8 8 8 8 8 8 8 8 8 8 8 8 8 8 8 f f a a a a a a a a a a a a a a f a a a a a a a a a a a a a a a a f a a a a a a f f f f f f f f f f f f f f f f f 8 8 8 8 f f f f 8 8 8 8 8 8 8 8 8 8 8 8 8 8 8 8 8 8 8 8 8 8 8 8 8 8 8 8 8 
+    8 8 8 8 8 8 8 8 8 8 8 8 8 8 8 8 8 8 8 8 8 8 8 8 8 8 8 8 8 8 8 8 8 8 8 8 8 8 8 8 8 8 8 8 8 8 8 8 8 8 8 8 8 8 8 8 8 8 8 8 8 8 8 8 8 8 f a a a a a a a a a a a a a a a f a a a a a a a a a a a a a a a a a f a a a a f f f f f f f f f f f f f f f f f f f 8 8 8 f f f f 8 8 8 8 8 8 8 8 8 8 8 8 8 8 8 8 8 8 8 8 8 8 8 8 8 8 8 8 8 
+    8 8 8 8 8 8 8 8 8 8 8 8 8 8 8 8 8 8 8 8 8 8 8 8 8 8 8 8 8 8 8 8 8 8 8 8 8 8 8 8 8 8 8 8 8 8 8 8 8 8 8 8 8 8 8 8 8 8 8 8 8 8 8 8 8 f f a a a a a a a a a a a a a a a f a a a a a a a a a a a a a a a a a f a a a f f f f f f f f f f f f f f f f f f f f f 8 8 f f f f f 8 8 8 8 8 8 8 8 8 8 8 8 8 8 8 8 8 8 8 8 8 8 8 8 8 8 8 8 
+    8 8 8 8 8 8 8 8 8 8 8 8 8 8 8 8 8 8 8 8 8 8 8 8 8 8 8 8 8 8 8 8 8 8 8 8 8 8 8 8 8 8 8 8 8 8 8 8 8 8 8 8 8 8 8 8 8 8 8 8 8 8 8 8 8 f a a a a a a a a a a a a a a a a a a a a a a a a a a a a a a a a a f f f f f f f f f f f f f f f f f f f f f f f f f f 8 8 f f f f f 8 8 8 8 8 8 8 8 8 8 8 8 8 8 8 8 8 8 8 8 8 8 8 8 8 8 8 8 
+    f f f f f f f f f f f f f f f f f f f f f f f f f f f f f f f f f f f f f f f f f f f f f f f f f f f f f f f f f f f f f f f f f a a a a a a a a a a a a a a a a f a a a a a a a a a a a a a a a a a f f f f f f f f f f f f f f f f f f f f f f f f f f f f f f f f f f f f f f f f f f f f f f f f f f f f f f f f f f f f f 
+    f f f f f f f f f f f f f f f f f f f f f f f f f f f f f f f f f f f f f f f f f f f f f f f f f f f f f f f f f f f f f f f f a a a a a a a a a a a a a a a a a a a a a a a a a a a a a a a a a a a f f f f f f f f f f f f f f f f f f f f f f f f f f f f f f f f f f f f f f f f f f f f f f f f f f f f f f f f f f f f f 
+    f f f f f f f f f f f f f f f f f f f f f f f f f f f f f f f f f f f f f f f f f f f f f f f f f f f f f f f f f f f f f f f a a a a a a a a a a a a a a a a a a a a a a a a a a a a a a a a a a a a f f f f f f f f f f f f f f f f f f f f f f f f f f f f f f f f f f f f f f f f f f f f f f f f f f f f f f f f f f f f f 
+    f f f f f f f f f f f f f f f f f f f f f f f f f f f f f f f f f f f f f f f f f f f f f f f f f f f f f f f f f f f f f f a a a a a a a a a a a a a a a a a a f a a a a a a a a a a a a a a a a a f f f f f f f f f f f f f f f f f f f f f f f f f f f f f f f f f f f f f f f f f f f f f f f f f f f f f f f f f f f f f f 
+    f f f f f f f f f f f f f f f f f f f f f f f f f f f f f f f f f f f f f f f f f f f f f f f f f f f f f f f f f f f f f f a a a a a a a a a a a a a a a a a f a a a a a a a a a a a a a a a a a a f f f f f f f f f f f f f f f f f f f f f f f f f f f f f f f f f f f f f f f f f f f f f f f f f f f f f f f f f f f f f f 
+    c c c c c c c c c c c c f f f f f c c c c c c c c c c c c c c c c c c c f f f f f c c c c c c c c c c c c c c c c c c f f a a a a a a a a a a a a a a a a a a f a a a a a a a a a a a a a a a a a a f f f c c c c c f f f f f f f f f f f f f f f f f f f f c c f f f f f f f f f f f f f f c c c c c c c c c c c c c c f f f f 
+    c c c c c c c c c c c c f f f f f c c c c c c c c c c c c c c c c c c c f f f f f c c c c c c c c c c c c c c c c c c f f a a a a a a a a a a a a a a a a a f a a a a a a a a a a a a a a a a a a a f f f c c c c c f f f f f f f f f f f f f f f f f f f f c c f f f f f f f f f f f f f f f c c c c c c c c c c c c c f f f f 
+    c c c c c c c c c c c c f f f f f c c c c c c c c c c c c c c c c c c c f f f f f c c c c c c c c c c c c c c c c c c f a a a a a a a a a a a a a a a a a f f a a a a a a a a a a a a a a a a a a a f f f c c c c c c f f f f f f f f f f f f f f f f f f f c f f f f f f f f f f f f f f f f c c c c c c c c c c c c f f f f f 
+    c c c c c c c c c c c f f f f f f c c c c c c c c c c c c c c c c c c c f f f f f c c c c c c c c c c c c c c c f f f f a a a a a a a a a a a a a a a a c f a f a a a a a a a a a a a a a a a a a a f f f f f c c c c c f f f f f f f f f f f f f f f f f f f f f f f f f f f f f f f f f f f c c c c c c c c c c c c f f f f f 
+    c c c c c c c c c c c f f f f f f c c c c c c c c c c c c c c c c c c c f f f f f c c c c c c c c c c c c c c c f d d f a a a a a a a a a a a a a a a c f f f a a a a a a a a a a a a a a a a a a f f f f f f f c c c c c f f f f f f f f f f f f f f f f f f f f f f f f c c c f f f f f f f c c c c c c c c c c c c f f f f f 
+    c c c c c c c c c c c f f f f f f c c c c c c c c c c c c c c c c c c c f f f f f c c c c c c c c c c c c c c f d d d f a a a a a a a a a a a a a a a f b f f a a a a a a a a a a a a a a f f f f f b f f f f f f c c c c c c c c c c c c c c c c c f f f f f f f f f f f c c c c f f f f f f c c c c c c c c c c c c f f f f f 
+    c c c c c c c c c c f f f f f f f c c c c c c c c c c c c c c c c c c c f f f f f f c c c c c c c c c c c c f d d d d d a a a a a a a a a a a a a a f f b b f f f f a a a a a a a a a f f b b b b b b f f f f f f f c c c c c c c c c c c c c c c c c f f f f f f f f f c c c c c f f f f f f c c c c c c c c c c c c f f f f f 
+    c c c c c c c c c c f f f f f f c c c c c c c c c c c c c c c c c c c c f f f f f f f c c c c c c c c c c c f d d d d d a a a a a a a a a a a a a f f f b b b b b b f f f f f f f f f b b b b b b b f f f f f f f f c c c c c c c c c c c c c c c c c c f f f f f f f c c c c c c f f f f f c c c c c c c c c c c c c f f f f f 
+    c c c c c c c c c f f f f f f f c c c c c c c c c c c c c c c c c c c c f f f f f f f c c c c c c c c c c c f d d d d d f f f f a a a a a a a a f f f f b b b b b b b b b b b b b b b b b b b b b b f f f f f f f f c c c c c c c c c c c c c c c c c c c c c c c c c c c c c c c f f f f f c c c c c c c c c c c c c f f f f f 
+    c c c c c c c c f f f f f f f f c c c c c c c c c c c c c c c c c c c c f f f f f f f c c c c c c c c c c c f d d d d d d d d f f f a a a a a f f f f f f b b b b b b b b b b b b b b b b b b b b f f f f f f f f f c c c c c c c c c c c c c c c c c c c c c c c c c c c c c c c f f f f f c c c c c c c c c c c f f f f f f f 
+    c c c c c c c c f f f f f f f f f f f f f c c c c c c c c c c c c c c c f f f f f f f c c c c c c c c c c c f f d d d d d d d d d f f f f f f f f f f f c f f b b b b b b b b b b b b b b b b b f f f f f f f f f f c c c c c c c c c c c c c c c c c c c c c c c c c c c c c c c f f f f f c c c c c c c c f f f f f f f f f f 
     c c c c c c c f f f f f f f f f f f f f f c c c c c c c c c c c c c c c c c f f f f f c c c c c c c c c c c c c f d d d d d d d d d f c c c f f f f f f c c c f f f b b b b b b b b b b b f f f c c c f f f f f f f c c c c c c c c c c c c c c c c c c c c c c c c c c c c c c f f f f f f f f f f f f f f f f f f f f f f f f 
     c c c c c c f f f f f f f f c f f f f f f f c c c c c c c c c c c c c c c f f f f f f c c c c c c c c c c c c c c f f f f f f f f f f c c c f f f f f f c c c c c c f f f f f f f f f f f c c c c c f f f f f f f f c c c c f f f f f f f f f f f f c c c c c c c c c c c c c c f f f f f f f f f f f f f f f f f f f f f f f f 
     c c c c f f f f f f f f f c c f f f f f f f c c c c c c c c c c c c c c f f f f f f f c c c c c c c c c c c c c c c c c c c c c c c c c c f f f f f f f f f f f f f f c c c c c c c c c c c c c c c f f f f f f f f c f f f f f f f f f f f f f f f f f c c c c c c c c c c c f f f f f f f f f f f f f f f f f f f f f f f f c 
